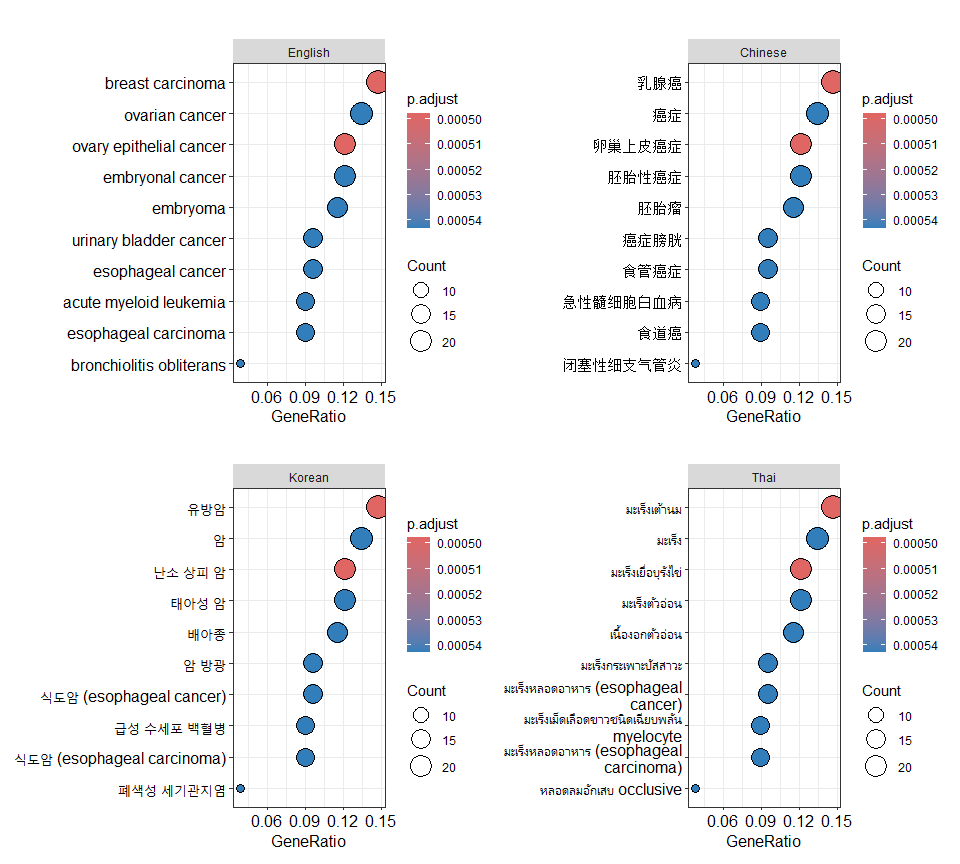
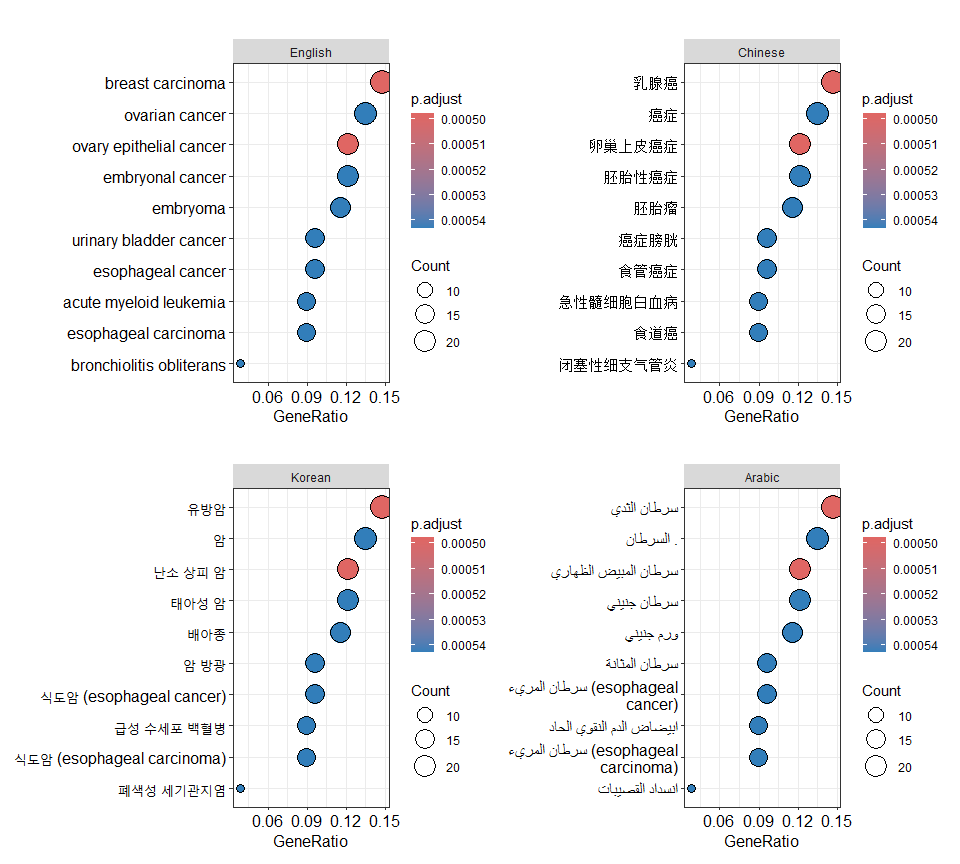
update example

diff --git a/README.md b/README.md
@@ -121,9 +121,9 @@ x <- enrichDO(de)
 p <- dotplot(x)
 p2 <- translate_ggplot(p, axis='y')
 p3 <- translate_ggplot(p, axis='y', to='kor')
-p4 <- translate_ggplot(p, axis='y', to='th')
+p4 <- translate_ggplot(p, axis='y', to='ara')
 aplot::plot_list(English = p, Chinese = p2, 
-                Korean = p3, Thai = p4, ncol=2)
+                Korean = p3, Arabic = p4, ncol=2)
 ```
 
 ![](README_files/figure-gfm/ggplot-fanyi-1.png)<!-- -->
